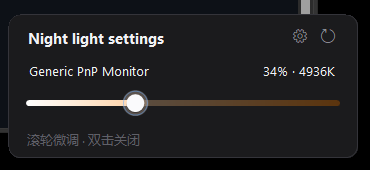
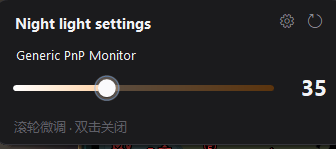
v1.2.1: 读数改为 Twinkle Tray 风格（滑轨末端大号数字）
- 强度数字 23px 粗体，紧贴滑轨末端显示，不带百分号
- 滑轨让出数字位置，宽度固定（按 100 预留），拖动时不跳动
- 显示器名称独占一行，行高相应调整
- README 截图更新

diff --git a/src/NightLightSettings/UI/TintRow.cs b/src/NightLightSettings/UI/TintRow.cs
@@ -12,6 +12,7 @@ internal sealed class TintRow : Control
     private readonly DisplayTarget _target;
     private readonly Font _nameFont;
     private readonly Font _valueFont;
+    private readonly int _valueWidth;
     private int _strength;
     private bool _dragging;
     private bool _hovering;
@@ -31,7 +32,10 @@ internal sealed class TintRow : Control
 
         BackColor = Theme.Background;
         _nameFont = Theme.UiFont(13f);
-        _valueFont = Theme.UiFont(12.5f);
+        // Twinkle Tray 同款：读数用大号粗体数字，宽度按 "100" 预留，拖动时滑轨长度不跳动
+        _valueFont = Theme.UiFont(23f, FontStyle.Bold);
+        _valueWidth = TextRenderer.MeasureText("100", _valueFont,
+            new Size(400, 80), TextFormatFlags.NoPadding | TextFormatFlags.SingleLine).Width + 2;
         TabStop = true;
         Cursor = Cursors.Hand;
     }
@@ -70,13 +74,26 @@ internal sealed class TintRow : Control
 
     private int Px(float value) => (int)Math.Round(value * DpiScale);
 
-    private int TrackTop => Px(42);
+    private int TrackLeft => Px(2);
+
+    /// <summary>滑轨长度：让出右侧大号数字的位置。</summary>
+    private int TrackWidth => Math.Max(Px(60), Width - Px(2) * 2 - _valueWidth - Px(12));
+
+    private int TrackTop => SliderBandTop + (SliderBandHeight - TrackHeight) / 2;
 
     private int TrackHeight => Px(6);
 
     private int ThumbRadius => Px(8);
 
-    public int PreferredHeight => Px(64);
+    public int PreferredHeight => Px(66);
+
+    /// <summary>显示器名称行高度。</summary>
+    private int NameRowHeight => Px(22);
+
+    /// <summary>滑轨 + 大号读数的整行区域。</summary>
+    private int SliderBandTop => NameRowHeight + Px(4);
+
+    private int SliderBandHeight => Px(38);
 
     public void SetStrength(int strength, bool commit)
     {
@@ -98,19 +115,21 @@ internal sealed class TintRow : Control
         int padX = Px(2);
         bool on = _strength > 0;
 
-        var nameRect = new Rectangle(padX, Px(2), Math.Max(10, Width - padX * 2 - Px(118)), Px(20));
+        // 显示器名称独占一行
+        var nameRect = new Rectangle(padX, 0, Math.Max(Px(40), Width - padX * 2), NameRowHeight);
         TextRenderer.DrawText(g, string.IsNullOrWhiteSpace(_target.Name) ? "显示器" : _target.Name,
             _nameFont, nameRect, _target.Applicable ? Theme.Text : Theme.TextFaint,
             TextFormatFlags.Left | TextFormatFlags.VerticalCenter | TextFormatFlags.EndEllipsis | TextFormatFlags.NoPrefix);
 
-        string valueText = $"{_strength}% · {ColorTemperature.StrengthToKelvin(_strength)}K";
-        var valueRect = new Rectangle(Width - padX - Px(116), Px(2), Px(116), Px(20));
-        TextRenderer.DrawText(g, valueText, _valueFont, valueRect,
+        // Twinkle Tray 同款：强度数字紧贴滑轨末端，大号粗体，不带百分号
+        var valueRect = new Rectangle(Width - padX - _valueWidth, SliderBandTop - Px(2),
+            _valueWidth, SliderBandHeight);
+        TextRenderer.DrawText(g, _strength.ToString(), _valueFont, valueRect,
             on ? Theme.Text : Theme.TextDim,
-            TextFormatFlags.Right | TextFormatFlags.VerticalCenter | TextFormatFlags.NoPrefix);
+            TextFormatFlags.Right | TextFormatFlags.VerticalCenter | TextFormatFlags.NoPrefix | TextFormatFlags.NoPadding);
 
-        int trackX = padX;
-        int trackWidth = Width - padX * 2;
+        int trackX = TrackLeft;
+        int trackWidth = TrackWidth;
         int trackY = TrackTop;
         int trackH = TrackHeight;
         float radius = trackH / 2f;
@@ -258,8 +277,8 @@ internal sealed class TintRow : Control
 
     private void ApplyMouseX(int x, bool commit)
     {
-        int padX = Px(2);
-        int trackWidth = Width - padX * 2;
+        int padX = TrackLeft;
+        int trackWidth = TrackWidth;
         int r = ThumbRadius;
         float usable = Math.Max(1f, trackWidth - r * 2f);
         float ratio = Math.Clamp((x - padX - r) / usable, 0f, 1f);
